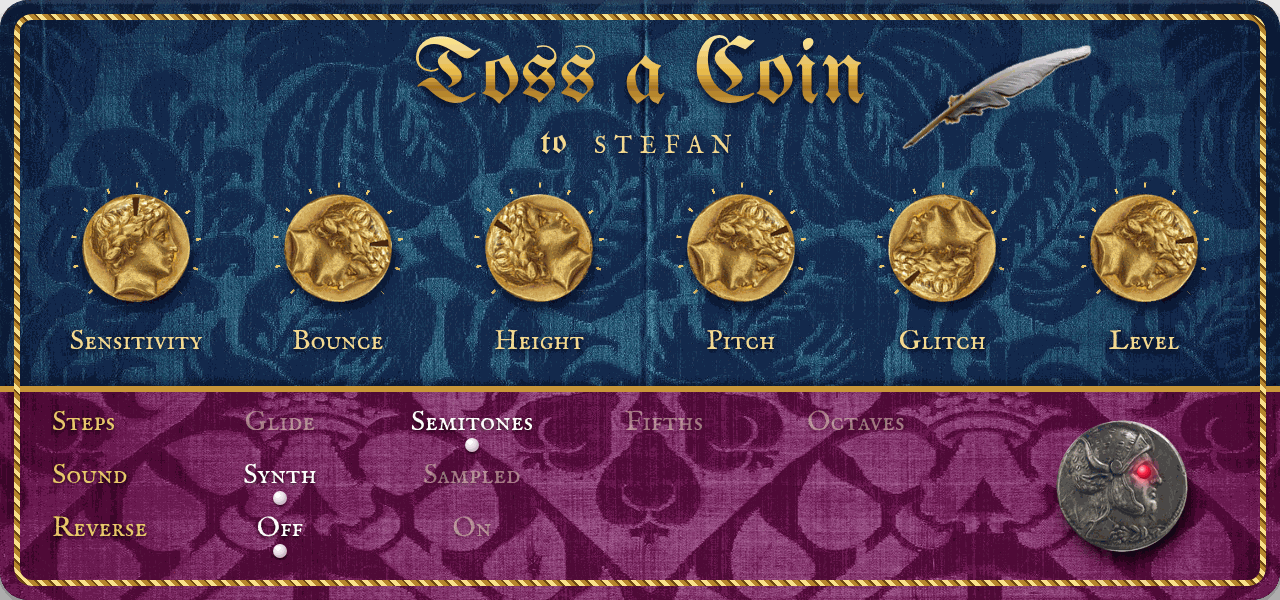
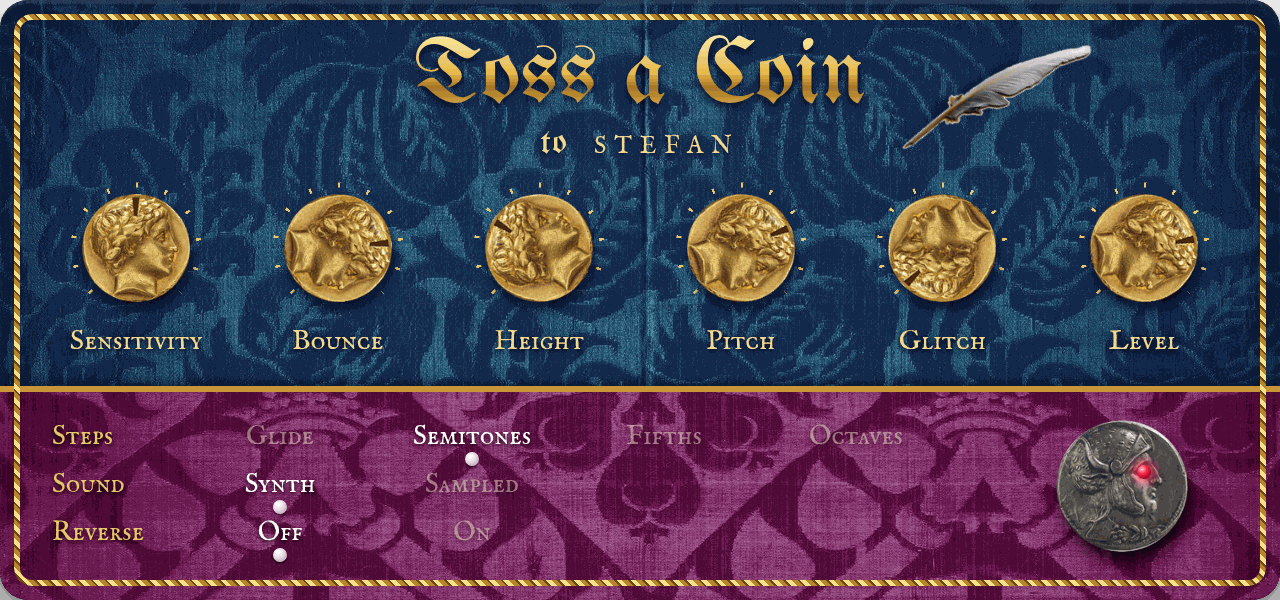
modgui: fix fonts, ruby light, selector padding and jack centring in MOD-UI
MOD-UI forces *{font-family:... !important} and styles the footswitch
(z-index 20) and the light itself; our rules now outrank them. Selectors are
placed from the band's top edge, jack stacks centred on the 300 px pedal.
render_screenshot.py can preview with MOD-UI's CSS (MODUI_CSS=...).

diff --git a/plugins/TossACoin/modgui/stylesheet-tossacoin.css b/plugins/TossACoin/modgui/stylesheet-tossacoin.css
@@ -11,7 +11,12 @@
  *   - NO overflow:hidden on the pedal: MOD-UI draws the audio jacks outside
  *     the frame, so every layer rounds its own corners instead;
  *   - a custom frame ships its own knob sprite (knobs/coin.png);
- *   - {{{ns}}} on every resource URL.
+ *   - {{{ns}}} on every resource URL;
+ *   - font-family needs !important: MOD-UI's main.css forces
+ *     *{font-family:"cooper hewitt",Sans-serif !important} on every element,
+ *     so ours only wins with !important plus a more specific selector;
+ *   - MOD-UI styles .mod-pedal .mod-light.on/.off with its own LED images,
+ *     so the light rules use .mod-pedal.tossacoin-pedal to outrank them.
  */
 
 @font-face {
@@ -30,8 +35,11 @@
     height: 300px;
     border-radius: 14px;
     box-shadow: 0 10px 26px rgba(0, 0, 0, 0.7);
-    font-family: "TossFell", "Palatino Linotype", Georgia, serif;
     color: #f6dc94;
+}
+.tossacoin-pedal,
+.tossacoin-pedal * {
+    font-family: "TossFell", "Palatino Linotype", Georgia, serif !important;
 }
 .tossacoin-pedal .mod-drag-handle {
     position: absolute;
@@ -94,7 +102,7 @@
 .tossacoin-pedal .mod-plugin-name { top: 16px; }
 .tossacoin-pedal .mod-plugin-name h1 {
     margin: 0;
-    font-family: "TossBlackletter", serif;
+    font-family: "TossBlackletter", serif !important;
     font-weight: normal;
     font-size: 46px;
     line-height: 1;
@@ -110,7 +118,6 @@
 .tossacoin-pedal .mod-plugin-brand { top: 63px; }
 .tossacoin-pedal .mod-plugin-brand h1 {
     margin: 0;
-    font-family: "TossFell", serif;
     font-weight: normal;
     font-size: 12px;
     letter-spacing: 4px;
@@ -119,7 +126,7 @@
     text-shadow: 0 1px 2px #050a1e;
 }
 .tossacoin-pedal .mod-plugin-brand em {
-    font-family: "TossBlackletter", serif;
+    font-family: "TossBlackletter", serif !important;
     font-style: normal;
     font-size: 17px;
     letter-spacing: 1px;
@@ -191,16 +198,18 @@
 }
 
 /* ============================ Engraved selectors ============================ */
-.tossacoin-pedal .toss-sels {
+.tossacoin-pedal .toss-sels {      /* band starts at y=196; rows 210..275, pearls to ~281 */
     position: absolute;
-    bottom: 27px;
+    top: 210px;
     left: 26px;
     width: 450px;
     display: grid;
     grid-template-columns: 66px repeat(4, 1fr);
-    row-gap: 9px;
+    grid-auto-rows: 17px;
+    row-gap: 7px;
     align-items: baseline;
-    font-size: 14px;
+    font-size: 13.5px;
+    line-height: 17px;
     color: #f2e2c4;
     text-shadow: 0 1px 2px #000;
     z-index: 1;
@@ -248,7 +257,7 @@
     z-index: 1;
 }
 .tossacoin-pedal .mod-footswitch:active { transform: translateY(1px) scale(0.98); }
-.tossacoin-pedal .mod-light {               /* the ruby sits in the coin's eye */
+.mod-pedal.tossacoin-pedal .mod-light {    /* the ruby sits in the coin's eye */
     position: absolute;
     left: 568.3px;
     top: 232.5px;
@@ -256,16 +265,24 @@
     height: 7px;
     border-radius: 50%;
     pointer-events: none;
-    z-index: 2;
+    z-index: 25;                            /* MOD-UI puts the footswitch at z-index 20 */
 }
-.tossacoin-pedal .mod-light.on {
+.mod-pedal.tossacoin-pedal .mod-light.off {
+    background: none;
+    box-shadow: none;
+}
+.mod-pedal.tossacoin-pedal .mod-light.on {
     background: radial-gradient(circle at 36% 30%, #ffd0d6 0, #ff2a4a 35%, #9a0020 75%, #4a000c);
     box-shadow: 0 0 6px 2px rgba(255, 40, 80, 0.85);
 }
 
 /* ============================ Audio I/O jacks ============================
-   No overrides: MOD-UI positions the jacks and computes cable endpoints
-   against its own defaults (see the template's note). */
+   MOD-UI puts the jack stacks at top:106px, which on a 300 px pedal leaves
+   them off-centre. Only the CONTAINERS move (never a jack, a margin or
+   left/right), and MOD-UI computes cable ends from the jacks' on-screen
+   offsets, so cables follow. Each jack is 56 px tall, 13 px apart. */
+.mod-pedal.tossacoin-pedal .mod-pedal-input  { top: 122px; }   /* 1 jack:  150 - 56/2        */
+.mod-pedal.tossacoin-pedal .mod-pedal-output { top: 88px; }    /* 2 jacks: 150 - (56+13+56)/2 */
 .tossacoin-pedal .mod-pedal-input,
 .tossacoin-pedal .mod-pedal-output {
     z-index: 1;

diff --git a/plugins/TossACoin/modgui/render_screenshot.py b/plugins/TossACoin/modgui/render_screenshot.py
@@ -15,6 +15,12 @@ WIDTH/HEIGHT to your pedal size).
 Needs Google Chrome (the same one `make manual` uses; override with CHROME=...)
 and Pillow for the thumbnail:
     python3 render_screenshot.py
+
+Preview it the way MOD-UI will style it: point MODUI_CSS at MOD-UI's css/
+directory (e.g. from a MOD Desktop install) and its main.css + pedals.css are
+loaded AFTER ours, so any rule of theirs that wins shows up (they force a
+font on every element, and style the footswitch and light):
+    MODUI_CSS=~/Software/mod-desktop-*/mod-desktop/html/css python3 render_screenshot.py
 """
 
 import os
@@ -104,6 +110,9 @@ def main():
         pedal_html = pedal_html.replace(f'mod-port-symbol="{port}"',
                                         f'mod-port-symbol="{port}" style="background-position: -{frame * 54}px 0"')
 
+    modui = "".join(f'<link rel="stylesheet" href="file://{os.environ["MODUI_CSS"]}/{f}">'
+                    for f in ("main.css", "pedals.css")) if os.environ.get("MODUI_CSS") else ""
+
     page = f"""<!doctype html>
 <html><head>
 <meta charset="utf-8">
@@ -117,7 +126,7 @@ def main():
   .pedal-host {{ position: relative; width: {WIDTH}px; height: {HEIGHT}px; }}
   .tossacoin-pedal {{ box-shadow: none; }}
 {css}
-</style></head>
+</style>{modui}</head>
 <body><div class="pedal-host">{pedal_html}</div></body></html>"""
 
     with tempfile.TemporaryDirectory(prefix="tossacoin-render-") as tmp:
